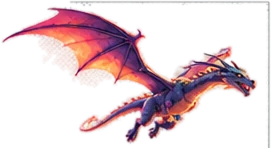
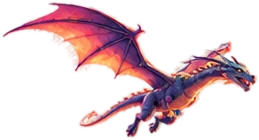
cloud n dragon fixed

diff --git a/src/app/page.tsx b/src/app/page.tsx
@@ -67,39 +67,43 @@ export default function Home() {
           src={rocketBusSrc}
           alt=""
           width={448}
-          height={180}
+          height={179}
+          sizes="210px"
           style={rocketBusDrift}
-          className="animate-drift-x absolute top-[22%] left-[85%] z-[var(--layer-content)] hidden w-[140px] md:block lg:w-[180px] xl:w-[210px]"
+          className="animate-drift-x absolute top-[22%] left-[85%] z-[var(--layer-ambient)] hidden w-[140px] md:block lg:w-[180px] xl:w-[210px]"
           draggable={false}
         />
 
         <Image
           src={dragonLeftSrc}
           alt=""
-          width={271}
-          height={148}
+          width={259}
+          height={140}
+          sizes="105px"
           style={dragonLeftFlight}
-          className="animate-flight-path absolute top-[13%] left-[6%] z-[var(--layer-content)] hidden w-[70px] md:block lg:w-[90px] xl:w-[105px]"
+          className="animate-flight-path absolute top-[13%] left-[6%] z-[var(--layer-ambient)] hidden w-[70px] md:block lg:w-[90px] xl:w-[105px]"
           draggable={false}
         />
 
         <Image
           src={dragonRightSrc}
           alt=""
-          width={275}
-          height={148}
+          width={256}
+          height={136}
+          sizes="96px"
           style={dragonRightFlight}
-          className="animate-flight-path absolute top-[9%] left-[63%] z-[var(--layer-content)] hidden w-[64px] md:block lg:w-[82px] xl:w-[96px]"
+          className="animate-flight-path absolute top-[9%] left-[63%] z-[var(--layer-ambient)] hidden w-[64px] md:block lg:w-[82px] xl:w-[96px]"
           draggable={false}
         />
 
         <Image
           src={cloudSrc}
           alt=""
-          width={246}
-          height={148}
+          width={228}
+          height={120}
+          sizes="120px"
           style={cloudDrift}
-          className="animate-cloud-drift absolute top-[6%] left-[36%] z-[var(--layer-content)] hidden w-[90px] opacity-80 md:block lg:w-[120px]"
+          className="animate-cloud-drift absolute top-[6%] left-[36%] z-[var(--layer-ambient)] hidden w-[90px] opacity-80 md:block lg:w-[120px]"
           draggable={false}
         />
 
@@ -147,9 +151,8 @@ export default function Home() {
                   width={700}
                   height={124}
                   badge="D"
-                  disabled
-                  title="Devpost registration coming soon"
-                  aria-label="Register on Devpost, coming soon"
+                  href="/"
+                  aria-label="Register on Devpost"
                 >
                   Devpost
                 </RegistrationPlate>
@@ -158,9 +161,8 @@ export default function Home() {
                   width={700}
                   height={111}
                   badge="U"
-                  disabled
-                  title="Unstop registration coming soon"
-                  aria-label="Register on Unstop, coming soon"
+                  href="/"
+                  aria-label="Register on Unstop"
                 >
                   Unstop
                 </RegistrationPlate>

diff --git a/src/components/layout/Navbar.tsx b/src/components/layout/Navbar.tsx
@@ -18,12 +18,10 @@ const NAV_LINKS = [
 
 function BrochureButton({ className = "" }: { className?: string }) {
   return (
-    <button
-      type="button"
-      disabled
-      title="Brochure coming soon"
-      aria-label="Brochure, coming soon"
-      className={`inline-flex items-center justify-center transition-transform duration-200 ease-out disabled:grayscale-[15%] active:scale-[0.97] motion-reduce:transition-none motion-reduce:active:scale-100 ${className}`}
+    <Link
+      href="/"
+      aria-label="Brochure"
+      className={`inline-flex items-center justify-center rounded-lg transition-[transform,filter] duration-200 ease-out hover:brightness-110 active:scale-[0.97] focus-visible:outline-2 focus-visible:outline-cyan focus-visible:outline-offset-[3px] motion-reduce:transition-none motion-reduce:active:scale-100 ${className}`}
     >
       <Image
         src={BROCHURE_PLAQUE_SRC}
@@ -33,7 +31,7 @@ function BrochureButton({ className = "" }: { className?: string }) {
         className="h-auto w-[170px] lg:w-[195px]"
         draggable={false}
       />
-    </button>
+    </Link>
   );
 }
 
@@ -60,7 +58,7 @@ export default function Navbar() {
             <li key={item.href}>
               <a
                 href={item.href}
-                className="text-shadow-crisp font-display text-xl tracking-[0.06em] text-paper uppercase transition-colors duration-200 hover:text-cyan xl:text-2xl"
+                className="text-shadow-crisp rounded-sm font-display text-xl tracking-[0.06em] text-paper uppercase transition-colors duration-200 hover:text-cyan focus-visible:text-cyan focus-visible:outline-2 focus-visible:outline-cyan focus-visible:outline-offset-4 xl:text-2xl"
               >
                 {item.label}
               </a>
@@ -101,7 +99,7 @@ export default function Navbar() {
                 key={item.href}
                 href={item.href}
                 onClick={() => setOpen(false)}
-                className="font-display text-xl tracking-[0.06em] text-paper uppercase transition-colors duration-200 hover:text-cyan"
+                className="rounded-sm font-display text-xl tracking-[0.06em] text-paper uppercase transition-colors duration-200 hover:text-cyan focus-visible:text-cyan focus-visible:outline-2 focus-visible:outline-cyan focus-visible:outline-offset-4"
               >
                 {item.label}
               </a>

diff --git a/src/components/environment/RegistrationPlate.tsx b/src/components/environment/RegistrationPlate.tsx
@@ -1,4 +1,5 @@
 import Image from "next/image";
+import Link from "next/link";
 import { FiArrowRight } from "react-icons/fi";
 
 type RegistrationPlateProps = {
@@ -7,7 +8,7 @@ type RegistrationPlateProps = {
   height: number;
   badge: string;
   children: string;
-  disabled?: boolean;
+  href: string;
   title?: string;
   "aria-label"?: string;
 };
@@ -18,18 +19,12 @@ export default function RegistrationPlate({
   height,
   badge,
   children,
-  disabled,
+  href,
   title,
   ...rest
 }: RegistrationPlateProps) {
   return (
-    <button
-      type="button"
-      className="plate-button"
-      disabled={disabled}
-      title={title}
-      {...rest}
-    >
+    <Link href={href} className="plate-button" title={title} {...rest}>
       <Image
         src={src}
         alt=""
@@ -45,6 +40,6 @@ export default function RegistrationPlate({
         {children}
         <FiArrowRight aria-hidden />
       </span>
-    </button>
+    </Link>
   );
 }

diff --git a/src/app/globals.css b/src/app/globals.css
@@ -27,6 +27,7 @@
 :root {
   color-scheme: dark;
   --layer-backdrop: 0;
+  --layer-ambient: 5;
   --layer-content: 10;
   --layer-hud: 20;
 }
@@ -368,17 +369,23 @@
     border: none;
     background: none;
     padding: 0;
-    transition: transform 200ms var(--ease-cinematic);
+    transition:
+      transform 200ms var(--ease-cinematic),
+      filter 200ms var(--ease-cinematic);
+  }
+
+  .plate-button:hover {
+    filter: brightness(1.1);
   }
 
   .plate-button:active {
     transform: scale(0.97);
   }
 
-  .plate-button:disabled {
-    opacity: 0.85;
-    filter: grayscale(25%);
-    pointer-events: none;
+  .plate-button:focus-visible {
+    outline: 2px solid var(--color-cyan);
+    outline-offset: 3px;
+    border-radius: 0.5rem;
   }
 
   .plate-button-badge {
